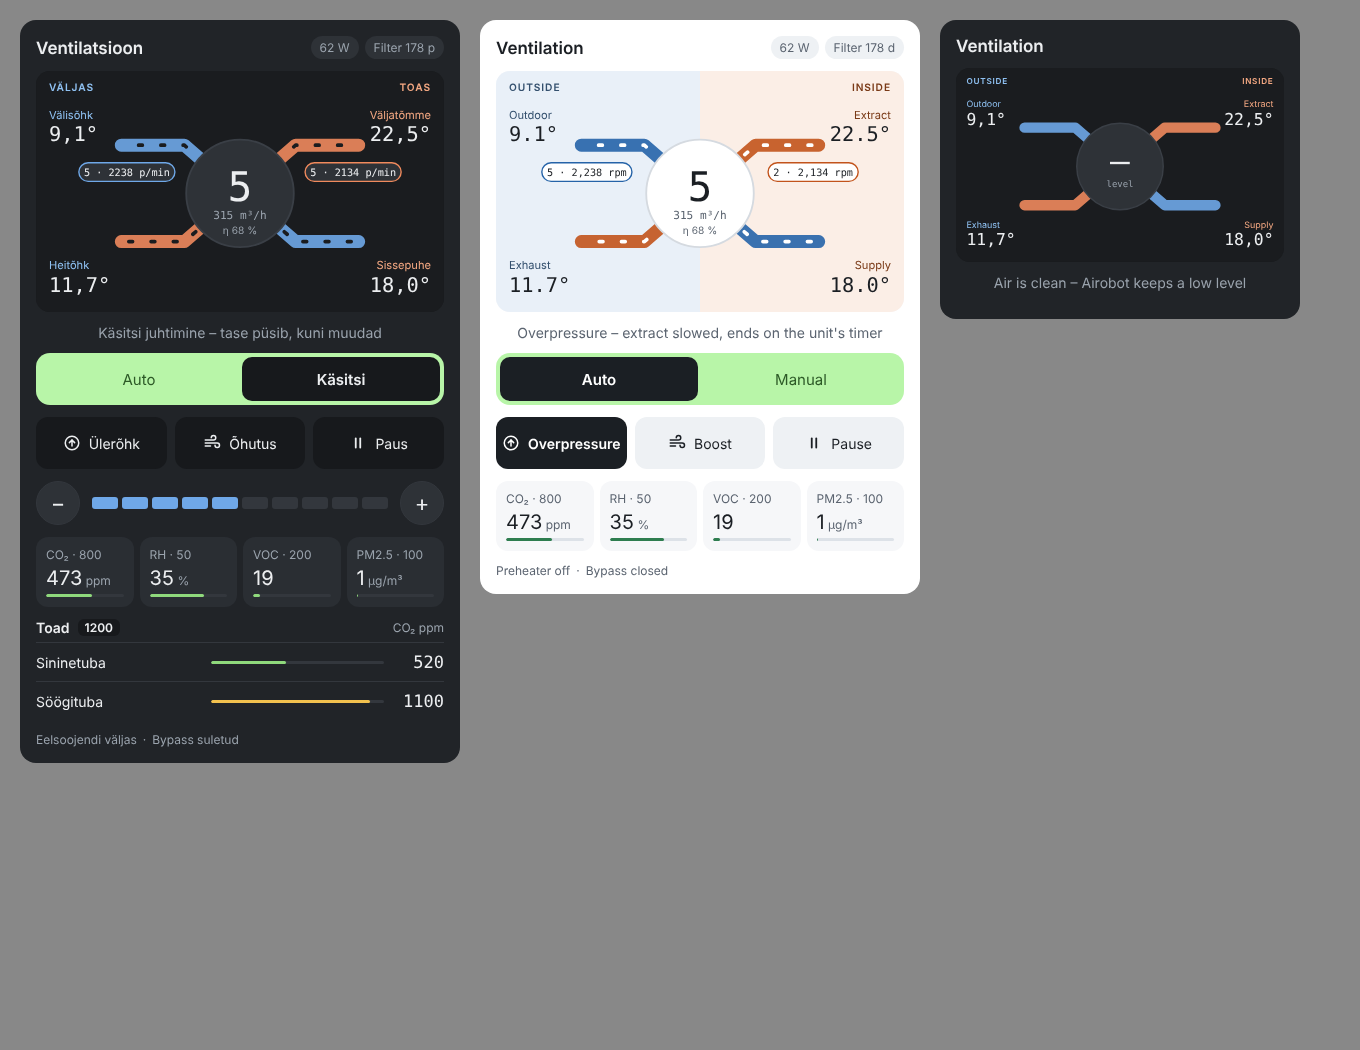
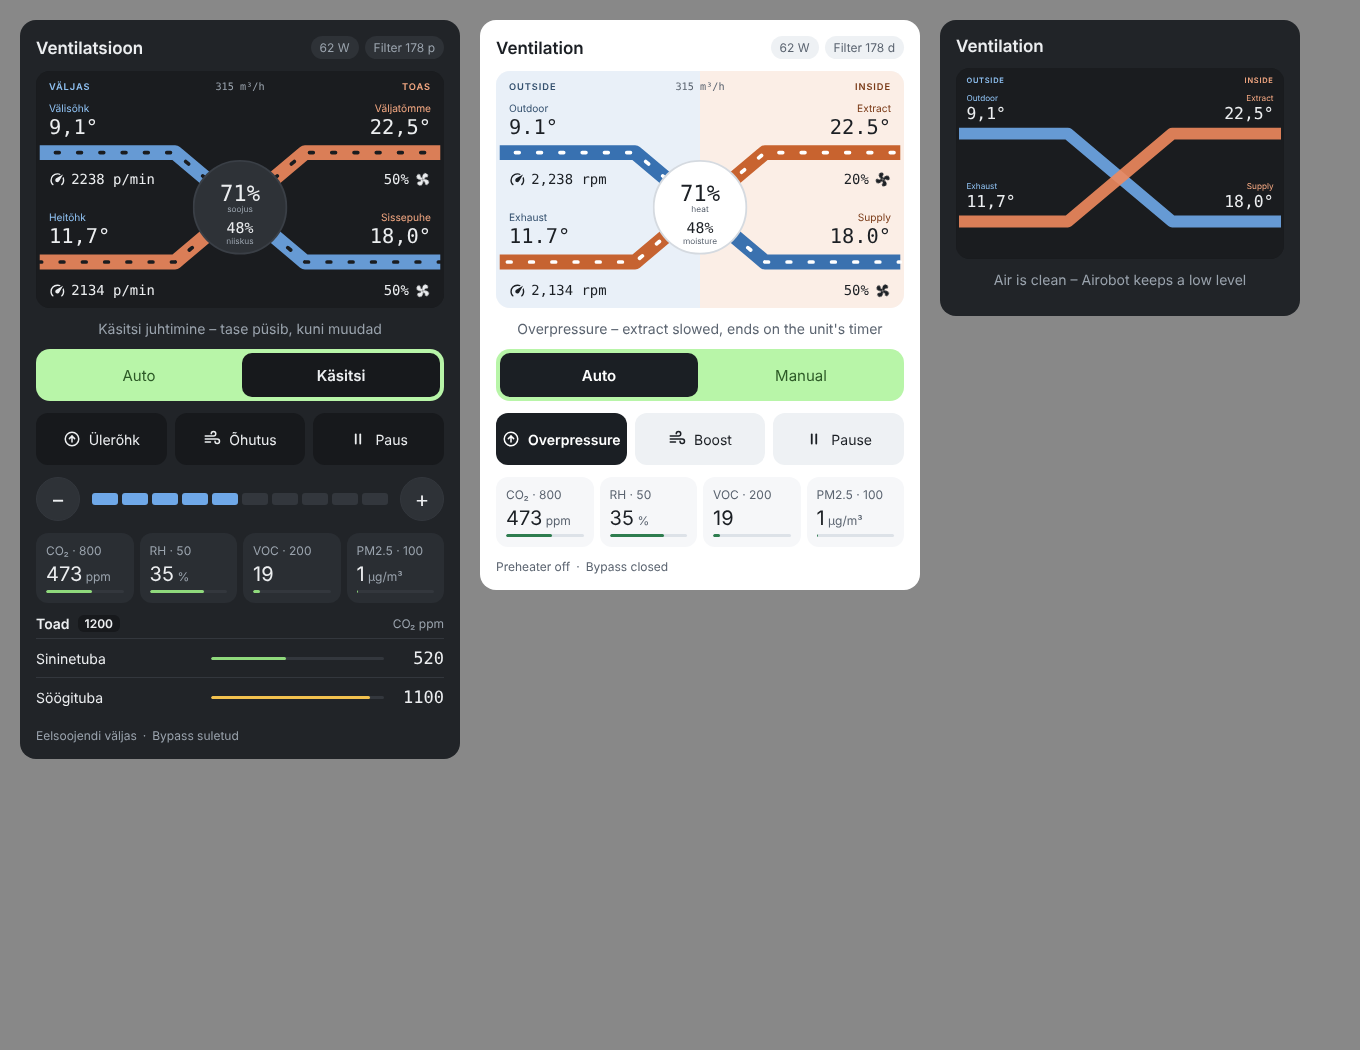
v0.5.0: ERV-style schematic layout
Temperature above each duct, fan rpm under the outdoor-side ducts and
fan level % with a spinning fan under the room-side ducts. Centre shows
heat and moisture recovery (new optional moisture_recovery entity).

Claude-Session: https://claude.ai/code/session_01DAmWjDz6KcV5AYitaXgLgo

diff --git a/airobot-vent-card.js b/airobot-vent-card.js
@@ -4,7 +4,7 @@
  * Languages: Estonian, English (follows HA language, or `language: et|en`).
  * MIT License
  */
-const CARD_VERSION = "0.4.0";
+const CARD_VERSION = "0.5.0";
 
 const DEFAULTS = {
   theme: "auto", // auto | light | dark
@@ -25,6 +25,7 @@ const DEFAULTS = {
     exhaust_airflow: null,
     airflow: "sensor.airobot_ohuhulk",
     efficiency: "sensor.airobot_seadme_kasutegur",
+    moisture_recovery: "sensor.airobot_niiskustagastus",
     power: "sensor.konkukilp_ventilatsioon_power",
     co2: "sensor.airobot_co2",
     co2_setpoint: "number.airobot_co2_seadepunkt",
@@ -96,7 +97,7 @@ const I18N = {
     auto: "Auto", manual: "Käsitsi",
     overpressure: "Ülerõhk", boost: "Õhutus", pause: "Paus",
     dec: "Vähenda taset", inc: "Suurenda taset", level_aria: (l) => `Tase ${l} / 10`,
-    rooms: "Toad", humidity_short: "RH", rpm: "p/min",
+    rooms: "Toad", humidity_short: "RH", rpm: "p/min", heat: "soojus", moisture: "niiskus", recovery: "tagastus",
     // redaktor
     g_rooms: "Toad (toaandurite CO₂)", g_temps: "Temperatuurid", g_fans: "Ventilaatorid ja energia",
     g_control: "Juhtimine", g_air: "Õhukvaliteet", g_status: "Olekud ja filter", g_advanced: "Täpsemalt",
@@ -113,7 +114,7 @@ const I18N = {
     e_supply_level: "Sissepuhke ventilaatori tase (0–10)", e_exhaust_level: "Väljatõmbe ventilaatori tase (0–10)",
     e_supply_rpm: "Sissepuhke ventilaatori pöörded", e_exhaust_rpm: "Väljatõmbe ventilaatori pöörded",
     e_supply_airflow: "Sissepuhke õhuhulk (m³/h)", e_exhaust_airflow: "Väljatõmbe õhuhulk (m³/h)",
-    e_airflow: "Õhuhulk (m³/h)", e_efficiency: "Soojustagastuse kasutegur (%)", e_power: "Elektritarve (W)",
+    e_airflow: "Õhuhulk (m³/h)", e_efficiency: "Soojustagastuse kasutegur (%)", e_moisture_recovery: "Niiskustagastus (%)", e_power: "Elektritarve (W)",
     e_mode: "Režiim (Auto / Käsitsi)", e_manual_level: "Käsitsi tase", e_boost: "Õhutus (boost)",
     e_overpressure: "Ülerõhk (kamin)", e_power_switch: "Toide (Paus)",
     e_co2: "CO₂", e_co2_setpoint: "CO₂ seadepunkt", e_humidity: "Niiskus", e_humidity_setpoint: "Niiskuse seadepunkt",
@@ -142,7 +143,7 @@ const I18N = {
     auto: "Auto", manual: "Manual",
     overpressure: "Overpressure", boost: "Boost", pause: "Pause",
     dec: "Decrease level", inc: "Increase level", level_aria: (l) => `Level ${l} / 10`,
-    rooms: "Rooms", humidity_short: "RH", rpm: "rpm",
+    rooms: "Rooms", humidity_short: "RH", rpm: "rpm", heat: "heat", moisture: "moisture", recovery: "recovery",
     g_rooms: "Rooms (room CO₂ sensors)", g_temps: "Temperatures", g_fans: "Fans and energy",
     g_control: "Control", g_air: "Air quality", g_status: "Status and filter", g_advanced: "Advanced",
     f_name: "Title", f_theme: "Theme", f_language: "Language",
@@ -158,7 +159,7 @@ const I18N = {
     e_supply_level: "Supply fan level (0–10)", e_exhaust_level: "Extract fan level (0–10)",
     e_supply_rpm: "Supply fan speed (rpm)", e_exhaust_rpm: "Extract fan speed (rpm)",
     e_supply_airflow: "Supply airflow (m³/h)", e_exhaust_airflow: "Extract airflow (m³/h)",
-    e_airflow: "Airflow (m³/h)", e_efficiency: "Heat recovery efficiency (%)", e_power: "Power consumption (W)",
+    e_airflow: "Airflow (m³/h)", e_efficiency: "Heat recovery efficiency (%)", e_moisture_recovery: "Moisture recovery (%)", e_power: "Power consumption (W)",
     e_mode: "Mode (Auto / Manual)", e_manual_level: "Manual level", e_boost: "Boost",
     e_overpressure: "Overpressure (fireplace)", e_power_switch: "Power (Pause)",
     e_co2: "CO₂", e_co2_setpoint: "CO₂ setpoint", e_humidity: "Humidity", e_humidity_setpoint: "Humidity setpoint",
@@ -279,17 +280,27 @@ class AirobotVentCard extends HTMLElement {
     const flow = (l) => (!l || l <= 0) ? "animation-play-state:paused;opacity:0" : `animation-duration:${(6 / l).toFixed(2)}s`;
 
     const t = (k) => this._fmt(this._num(k), 1) + "°";
-    // kanali kiirus: tase · õhuhulk või pöörded
-    const pill = (lvlKey, flowKey, rpmKey, lvl, x, y, col, more) => {
+    const moist = this._num("moisture_recovery");
+    const tempTxt = (key, label, x, y, anchor, col) => this._id(key) ? `<g data-more="${esc(this._id(key))}" style="cursor:pointer">
+        <text x="${x}" y="${y - 24}" font-size="11" fill="${col}" text-anchor="${anchor}">${this._t(label)}</text>
+        <text class="num" x="${x}" y="${y}" font-size="22" fill="${p.text}" text-anchor="${anchor}">${t(key)}</text></g>` : "";
+    const GAUGE = "M12,16A3,3 0 0,1 9,13C9,11.88 9.61,10.9 10.5,10.39L20.21,4.77L14.68,14.35C14.18,15.33 13.17,16 12,16M12,3C13.81,3 15.5,3.5 16.97,4.32L14.87,5.53C14,5.19 13,5 12,5A8,8 0 0,0 4,13C4,15.21 4.89,17.21 6.34,18.65H6.35C6.74,19.04 6.74,19.67 6.35,20.06C5.96,20.45 5.32,20.45 4.93,20.07V20.07C3.12,18.26 2,15.76 2,13A10,10 0 0,1 12,3M22,13C22,15.76 20.88,18.26 19.07,20.07V20.07C18.68,20.45 18.05,20.45 17.66,20.06C17.27,19.67 17.27,19.04 17.66,18.65V18.65C19.11,17.2 20,15.21 20,13C20,12 19.81,11 19.46,10.1L20.67,8C21.5,9.5 22,11.18 22,13Z";
+    const FAN = "M12,11A1,1 0 0,0 11,12A1,1 0 0,0 12,13A1,1 0 0,0 13,12A1,1 0 0,0 12,11M12.5,2C17,2 17.11,5.57 14.75,6.75C13.76,7.24 13.32,8.29 13.13,9.22C13.61,9.42 14.03,9.73 14.35,10.13C18.05,8.13 22.03,8.92 22.03,12.5C22.03,17 18.46,17.1 17.28,14.73C16.78,13.74 15.72,13.3 14.79,13.11C14.59,13.59 14.28,14 13.88,14.34C15.87,18.03 15.08,22 11.5,22C7,22 6.91,18.42 9.27,17.24C10.25,16.75 10.69,15.71 10.89,14.79C10.4,14.59 9.97,14.27 9.65,13.87C5.96,15.85 2,15.07 2,11.5C2,7 5.56,6.89 6.74,9.26C7.24,10.25 8.29,10.68 9.22,10.87C9.41,10.39 9.73,9.97 10.14,9.65C8.15,5.96 8.94,2 12.5,2Z";
+    const rpmTxt = (key, flowKey, x, y) => {
+      const useFlow = this._has(flowKey);
+      const k = useFlow ? flowKey : key;
+      if (!this._st(k)) return "";
+      const v = s.powerOn ? this._num(k) : 0;
+      return `<g data-more="${esc(this._id(k))}" style="cursor:pointer">
+        <g transform="translate(${x} ${y - 14}) scale(0.75)"><path d="${GAUGE}" fill="${p.text}"/></g>
+        <text class="num" x="${x + 24}" y="${y}" font-size="15" fill="${p.text}">${v === null ? "–" : esc(this._fmt(v, 0))} ${useFlow ? "m³/h" : this._t("rpm")}</text></g>`;
+    };
+    const pctTxt = (lvl, key, x, y) => {
       if (lvl === null || lvl === undefined) return "";
-      const flowV = s.powerOn ? this._num(flowKey) : null;
-      const rpmV = s.powerOn ? this._num(rpmKey) : null;
-      const extra = flowV !== null ? `${this._fmt(flowV, 0)} m³/h` : rpmV !== null ? `${this._fmt(rpmV, 0)} ${this._t("rpm")}` : "";
-      const txt = `${this._fmt(lvl, 0)}${extra ? " · " + extra : ""}`;
-      const w = Math.max(28, txt.length * 6.4 + 14);
-      return `<g data-more="${esc(this._id(more) || "")}" style="cursor:pointer">
-        <rect x="${x - w / 2}" y="${y - 11}" width="${w}" height="20" rx="10" fill="${p.hub}" stroke="${col}" stroke-width="1.5"/>
-        <text class="num" x="${x}" y="${y + 3}" font-size="11" fill="${p.text}" text-anchor="middle">${esc(txt)}</text></g>`;
+      const spin = lvl > 0 ? `animation-duration:${(4 / lvl).toFixed(2)}s` : "animation-play-state:paused";
+      return `<g data-more="${esc(this._id(key))}" style="cursor:pointer">
+        <text class="num" x="${x - 24}" y="${y}" font-size="15" fill="${p.text}" text-anchor="end">${esc(this._fmt(lvl * 10, 0))}%</text>
+        <g transform="translate(${x - 18} ${y - 14}) scale(0.75)"><path class="spin" d="${FAN}" fill="${p.text}" style="${spin}"/></g></g>`;
     };
     const eff = this._num("efficiency");
     const airflow = this._num("airflow");
@@ -360,7 +371,9 @@ button:focus-visible{outline:2px solid ${p.cold};outline-offset:2px}
 .num{font-family:ui-monospace,"SF Mono","IBM Plex Mono",Menlo,monospace;font-variant-numeric:tabular-nums}
 .flow{stroke-dasharray:4 20;animation:airflow linear infinite}
 @keyframes airflow{to{stroke-dashoffset:-24}}
-@media (prefers-reduced-motion:reduce){.flow{animation:none}}
+.spin{transform-box:fill-box;transform-origin:center;animation:spin linear infinite}
+@keyframes spin{to{transform:rotate(360deg)}}
+@media (prefers-reduced-motion:reduce){.flow,.spin{animation:none}}
 .info{text-align:center;font-size:14px;color:${p.muted}}
 .toggle{display:grid;grid-template-columns:1fr 1fr;gap:4px;padding:4px;border-radius:14px;background:${p.toggleBg}}
 .toggle button{height:44px;border-radius:10px;text-align:center;font-size:15px}
@@ -394,25 +407,35 @@ button:focus-visible{outline:2px solid ${p.cold};outline-offset:2px}
   </div>
 
   <div class="schem">
-    <svg viewBox="0 0 440 260" role="img" aria-label="${this._t("schematic")}">
-      <rect x="0" y="0" width="220" height="260" fill="${p.coldBg}"/>
-      <rect x="220" y="0" width="220" height="260" fill="${p.warmBg}"/>
-      <text x="14" y="22" font-size="11" font-weight="600" letter-spacing="1" fill="${p.coldText}">${this._t("outside")}</text>
-      <text x="426" y="22" font-size="11" font-weight="600" letter-spacing="1" fill="${p.warmText}" text-anchor="end">${this._t("inside")}</text>
-      <path d="M92 80 H160 L280 184 H348" stroke="${p.cold}" stroke-width="14" stroke-linecap="round" stroke-linejoin="round" fill="none" opacity=".9"/>
-      <path d="M348 80 H280 L160 184 H92" stroke="${p.warm}" stroke-width="14" stroke-linecap="round" stroke-linejoin="round" fill="none" opacity=".9"/>
-      <path class="flow" d="M92 80 H160 L280 184 H348" stroke="${p.flowDash}" stroke-width="4" stroke-linecap="round" stroke-linejoin="round" fill="none" style="${flow(s.sup)}"/>
-      <path class="flow" d="M348 80 H280 L160 184 H92" stroke="${p.flowDash}" stroke-width="4" stroke-linecap="round" stroke-linejoin="round" fill="none" style="${flow(s.ex)}"/>
-      <g data-more="${esc(this._id("outdoor_temp"))}" style="cursor:pointer"><text x="14" y="52" font-size="12" fill="${p.coldText}">${this._t("outdoor")}</text><text class="num" x="14" y="76" font-size="22" fill="${p.text}">${t("outdoor_temp")}</text></g>
-      <g data-more="${esc(this._id("exhaust_temp"))}" style="cursor:pointer"><text x="14" y="214" font-size="12" fill="${p.coldText}">${this._t("exhaust")}</text><text class="num" x="14" y="238" font-size="22" fill="${p.text}">${t("exhaust_temp")}</text></g>
-      <g data-more="${esc(this._id("extract_temp"))}" style="cursor:pointer"><text x="426" y="52" font-size="12" fill="${p.warmText}" text-anchor="end">${this._t("extract")}</text><text class="num" x="426" y="76" font-size="22" fill="${p.text}" text-anchor="end">${t("extract_temp")}</text></g>
-      <g data-more="${esc(this._id("supply_temp"))}" style="cursor:pointer"><text x="426" y="214" font-size="12" fill="${p.warmText}" text-anchor="end">${this._t("supply")}</text><text class="num" x="426" y="238" font-size="22" fill="${p.text}" text-anchor="end">${t("supply_temp")}</text></g>
-      ${pill("supply_level", "supply_airflow", "supply_rpm", s.sup, 98, 110, p.cold, this._id("supply_rpm") ? "supply_rpm" : "supply_level")}
-      ${pill("exhaust_level", "exhaust_airflow", "exhaust_rpm", s.ex, 342, 110, p.warm, this._id("exhaust_rpm") ? "exhaust_rpm" : "exhaust_level")}
-      <circle cx="220" cy="132" r="58" fill="${p.hub}" stroke="${p.hubLine}" stroke-width="2"/>
-      <text class="num" x="220" y="140" font-size="44" fill="${p.text}" text-anchor="middle">${s.sup === null ? "–" : esc(this._fmt(s.sup, 0))}</text>
-      <text class="num" x="220" y="160" font-size="12" fill="${p.muted}" text-anchor="middle">${airflow !== null && s.powerOn ? esc(this._fmt(airflow, 0)) + " m³/h" : this._t("level")}</text>
-      ${eff !== null ? `<text x="220" y="176" font-size="11" fill="${p.muted}" text-anchor="middle">η ${esc(this._fmt(eff, 0))} %</text>` : ""}
+    <svg viewBox="0 0 440 256" role="img" aria-label="${this._t("schematic")}">
+      <rect x="0" y="0" width="220" height="256" fill="${p.coldBg}"/>
+      <rect x="220" y="0" width="220" height="256" fill="${p.warmBg}"/>
+      <text x="14" y="20" font-size="10" font-weight="600" letter-spacing="1" fill="${p.coldText}">${this._t("outside")}</text>
+      <text x="426" y="20" font-size="10" font-weight="600" letter-spacing="1" fill="${p.warmText}" text-anchor="end">${this._t("inside")}</text>
+      ${airflow !== null && s.powerOn ? `<text class="num" x="220" y="20" font-size="11" fill="${p.muted}" text-anchor="middle" data-more="${esc(this._id("airflow"))}" style="cursor:pointer">${esc(this._fmt(airflow, 0))} m³/h</text>` : ""}
+
+      <path d="M4 88 H150 L290 206 H436" stroke="${p.cold}" stroke-width="16" stroke-linejoin="round" fill="none" opacity=".9"/>
+      <path d="M436 88 H290 L150 206 H4" stroke="${p.warm}" stroke-width="16" stroke-linejoin="round" fill="none" opacity=".9"/>
+      <path class="flow" d="M4 88 H150 L290 206 H436" stroke="${p.flowDash}" stroke-width="4" stroke-linecap="round" stroke-linejoin="round" fill="none" style="${flow(s.sup)}"/>
+      <path class="flow" d="M436 88 H290 L150 206 H4" stroke="${p.flowDash}" stroke-width="4" stroke-linecap="round" stroke-linejoin="round" fill="none" style="${flow(s.ex)}"/>
+
+      ${tempTxt("outdoor_temp", "outdoor", 14, 68, "start", p.coldText)}
+      ${tempTxt("exhaust_temp", "exhaust", 14, 186, "start", p.coldText)}
+      ${tempTxt("extract_temp", "extract", 426, 68, "end", p.warmText)}
+      ${tempTxt("supply_temp", "supply", 426, 186, "end", p.warmText)}
+
+      ${rpmTxt("supply_rpm", "supply_airflow", 14, 122)}
+      ${rpmTxt("exhaust_rpm", "exhaust_airflow", 14, 242)}
+      ${pctTxt(s.ex, "exhaust_level", 426, 122)}
+      ${pctTxt(s.sup, "supply_level", 426, 242)}
+
+      ${eff !== null || moist !== null ? `<g data-more="${esc(this._id(eff !== null ? "efficiency" : "moisture_recovery"))}" style="cursor:pointer">
+        <circle cx="220" cy="147" r="50" fill="${p.hub}" stroke="${p.hubLine}" stroke-width="2"/>
+        ${eff !== null ? `<text class="num" x="220" y="${moist !== null ? 140 : 154}" font-size="24" fill="${p.text}" text-anchor="middle">${esc(this._fmt(eff, 0))}%</text>
+        <text x="220" y="${moist !== null ? 152 : 168}" font-size="9" fill="${p.muted}" text-anchor="middle">${this._t("heat")}</text>` : ""}
+        ${moist !== null ? `<text class="num" x="220" y="${eff !== null ? 175 : 154}" font-size="${eff !== null ? 16 : 24}" fill="${p.text}" text-anchor="middle">${esc(this._fmt(moist, 0))}%</text>
+        <text x="220" y="${eff !== null ? 187 : 168}" font-size="9" fill="${p.muted}" text-anchor="middle">${this._t("moisture")}</text>` : ""}
+      </g>` : ""}
     </svg>
   </div>
 
@@ -498,7 +521,7 @@ const EDITOR_GROUPS = [
     ["supply_level", ENT("sensor")], ["exhaust_level", ENT("sensor")],
     ["supply_rpm", ENT("sensor")], ["exhaust_rpm", ENT("sensor")],
     ["supply_airflow", ENT("sensor")], ["exhaust_airflow", ENT("sensor")], ["airflow", ENT("sensor")],
-    ["efficiency", ENT("sensor")], ["power", ENT("sensor", { device_class: "power" })],
+    ["efficiency", ENT("sensor")], ["moisture_recovery", ENT("sensor")], ["power", ENT("sensor", { device_class: "power" })],
   ] },
   { key: "g_control", icon: "mdi:tune-variant", fields: [
     ["mode", ENT(["select", "input_select"])], ["manual_level", ENT(["number", "input_number"])],

diff --git a/README.et.md b/README.et.md
@@ -9,8 +9,8 @@ Home Assistanti Lovelace kaart Airoboti soojustagastusega ventilatsiooniseadmete
 ## Mida kaart näitab
 
 - **Skeem:** välisõhk, sissepuhe, väljatõmme ja heitõhk. Kanalites liigub õhk ventilaatori taseme kiirusega, kumbki vool oma kiirusega. Ülerõhu ajal on väljatõmme aeglasem ja pausi ajal liikumine peatub.
-- **Kiirus kanali kohta:** sissepuhke ja väljatõmbe voolul on silt ventilaatori taseme ja õhuhulga (m³/h) või pööretega (p/min).
-- **Tase, õhuhulk ja soojustagastuse kasutegur** skeemi keskel.
+- **Paigutus nagu klassikalisel ERV-kaardil:** iga kanali kohal on temperatuur. Välispoolsete kanalite all on ventilaatori pöörded (p/min, või m³/h, kui voolu õhuhulk on seadistatud). Toapoolsete kanalite all on tase protsentides ja ventilaatori ikoon, mis pöörleb ventilaatori kiirusega.
+- **Keskel:** soojustagastuse kasutegur ja niiskustagastus. Kogu õhuhulk on üleval keskel.
 - **Režiim:** Auto ja Käsitsi. Taseme valik (+/−) on nähtaval ainult käsitsi režiimis.
 - **Toimingud:** Ülerõhk (kamin), Õhutus (boost) ja Paus.
 - **Õhukvaliteet:** CO₂, niiskus, VOC ja PM2.5 koos seadepunktiga. Riba muutub kollaseks 85 % juures ja punaseks üle seadepunkti. Näidatakse ainult neid näite, mille olem on olemas.
@@ -76,6 +76,7 @@ entities:                # muuda ainult neid, mis erinevad vaikimisi nimedest
   exhaust_airflow: null
   airflow: sensor.airobot_ohuhulk
   efficiency: sensor.airobot_seadme_kasutegur
+  moisture_recovery: sensor.airobot_niiskustagastus
   power: sensor.konkukilp_ventilatsioon_power
   co2: sensor.airobot_co2
   co2_setpoint: number.airobot_co2_seadepunkt

diff --git a/README.md b/README.md
@@ -9,8 +9,8 @@ A Home Assistant Lovelace card for Airobot heat recovery ventilation units (L, L
 ## Features
 
 - **Animated schematic**: outdoor, supply, extract and exhaust air. Air moves through the ducts at the speed of each fan, so the supply and extract streams move independently. In overpressure mode the extract stream slows down, and when paused the movement stops.
-- **Per-stream speed**: a label on the supply and the extract stream shows the fan level and its airflow (m³/h) or fan speed (rpm).
-- **Fan level, airflow and heat recovery efficiency** in the centre of the schematic.
+- **Layout like a classic ERV card**: a temperature above each duct; under the outdoor-side ducts the fan speed (rpm, or m³/h if per-stream airflow is configured), under the room-side ducts the fan level in % with a fan icon that spins at fan speed.
+- **Centre**: heat recovery efficiency and moisture recovery. Total airflow is shown at the top.
 - **Mode**: Auto or Manual. The level stepper (+/−) is shown only in Manual mode.
 - **Actions**: Overpressure (fireplace), Boost and Pause.
 - **Air quality**: CO₂, humidity, VOC and PM2.5, each with its setpoint. The bar turns yellow at 85 % of the setpoint and red above it.
@@ -82,6 +82,7 @@ entities:                  # override only what differs from the defaults
   exhaust_airflow: null
   airflow: sensor.airobot_ohuhulk
   efficiency: sensor.airobot_seadme_kasutegur
+  moisture_recovery: sensor.airobot_niiskustagastus
   power: sensor.konkukilp_ventilatsioon_power
   co2: sensor.airobot_co2
   co2_setpoint: number.airobot_co2_seadepunkt
